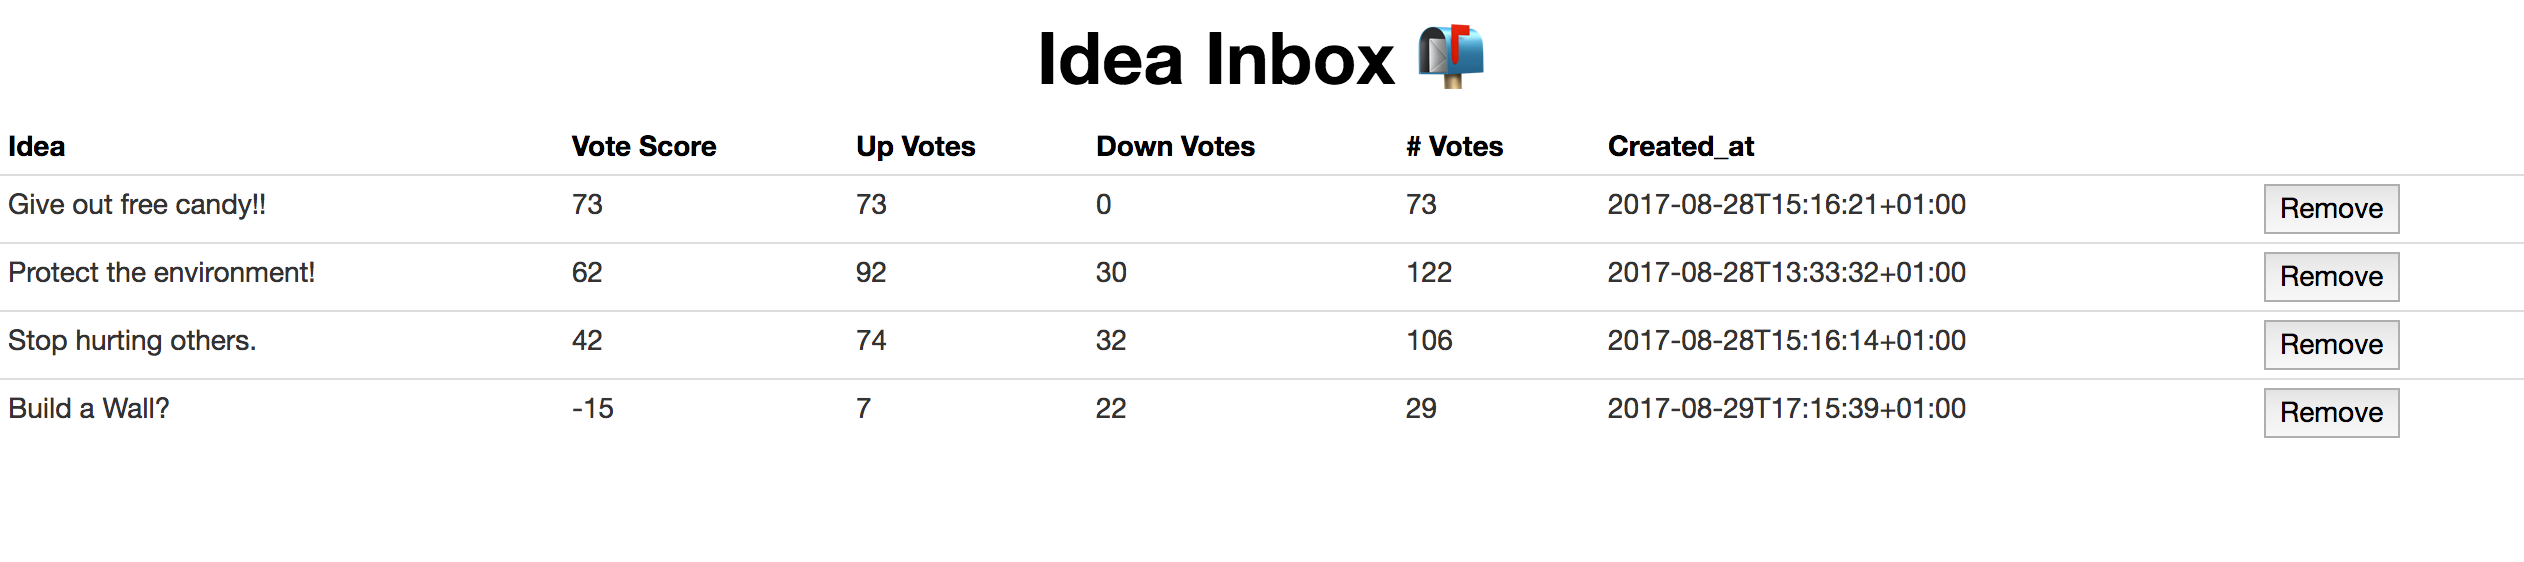
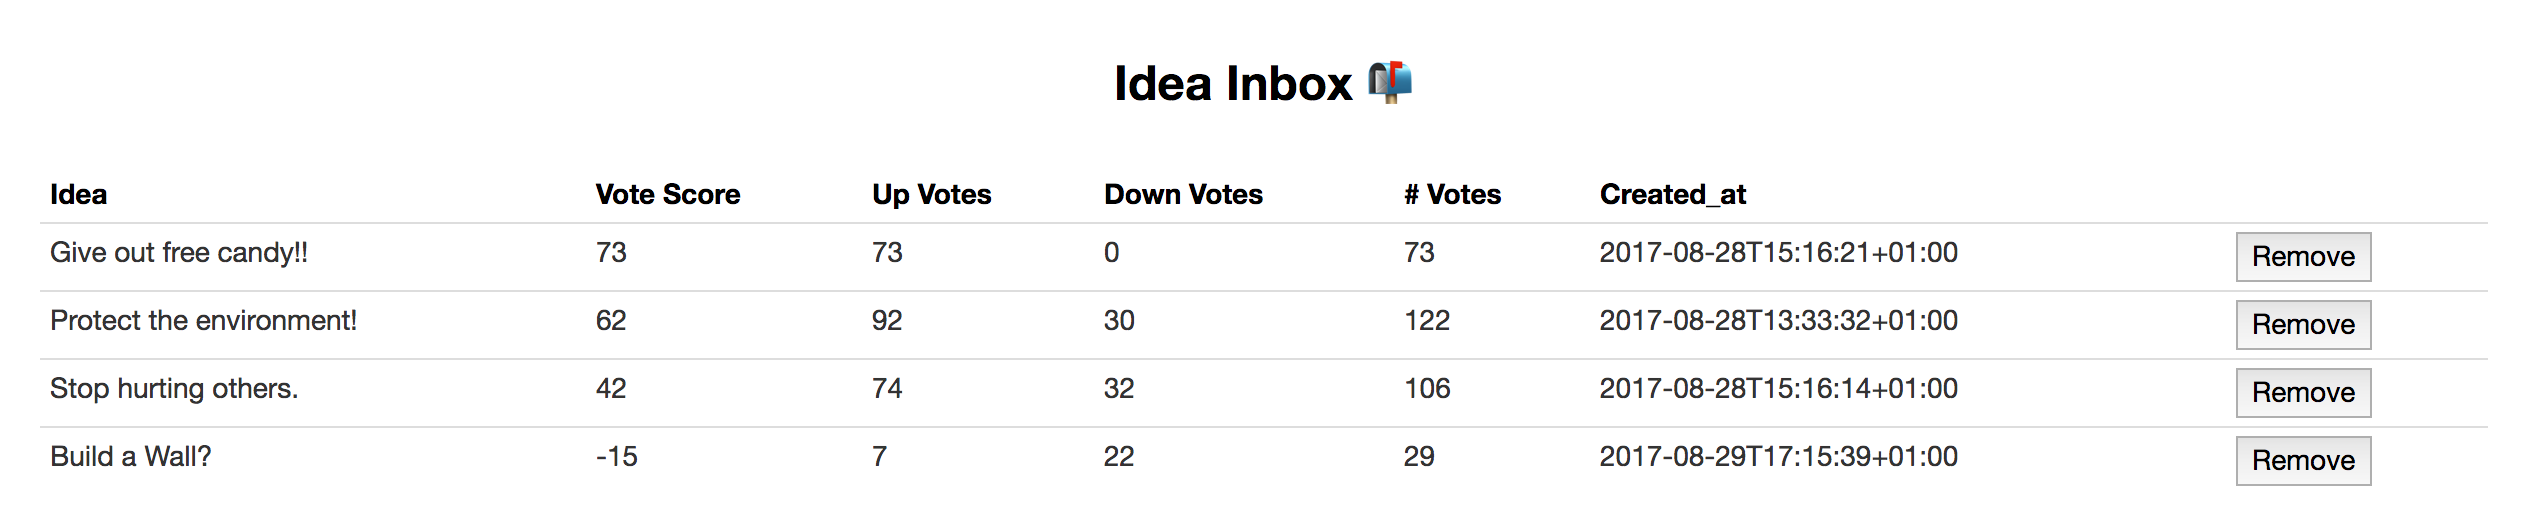
Improve admin page layout

diff --git a/public/css/admin.css b/public/css/admin.css
@@ -1,5 +1,11 @@
+body {
+  padding: 0 20px;
+}
+
 h1 {
   text-align: center;
+  font-size: 24px;
+  line-height: 64px;
 }
 
 a {
